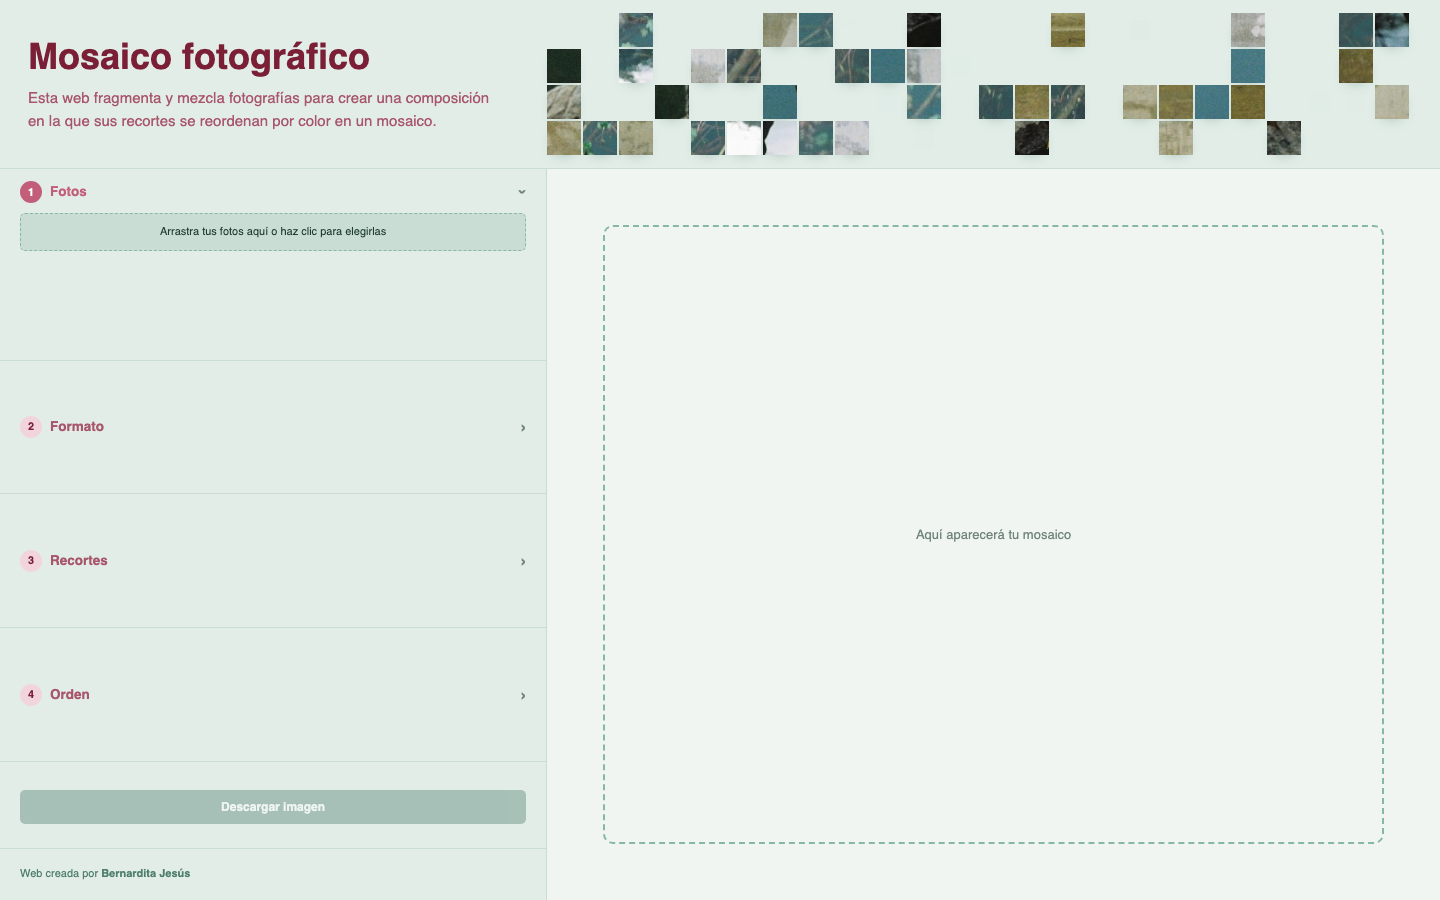
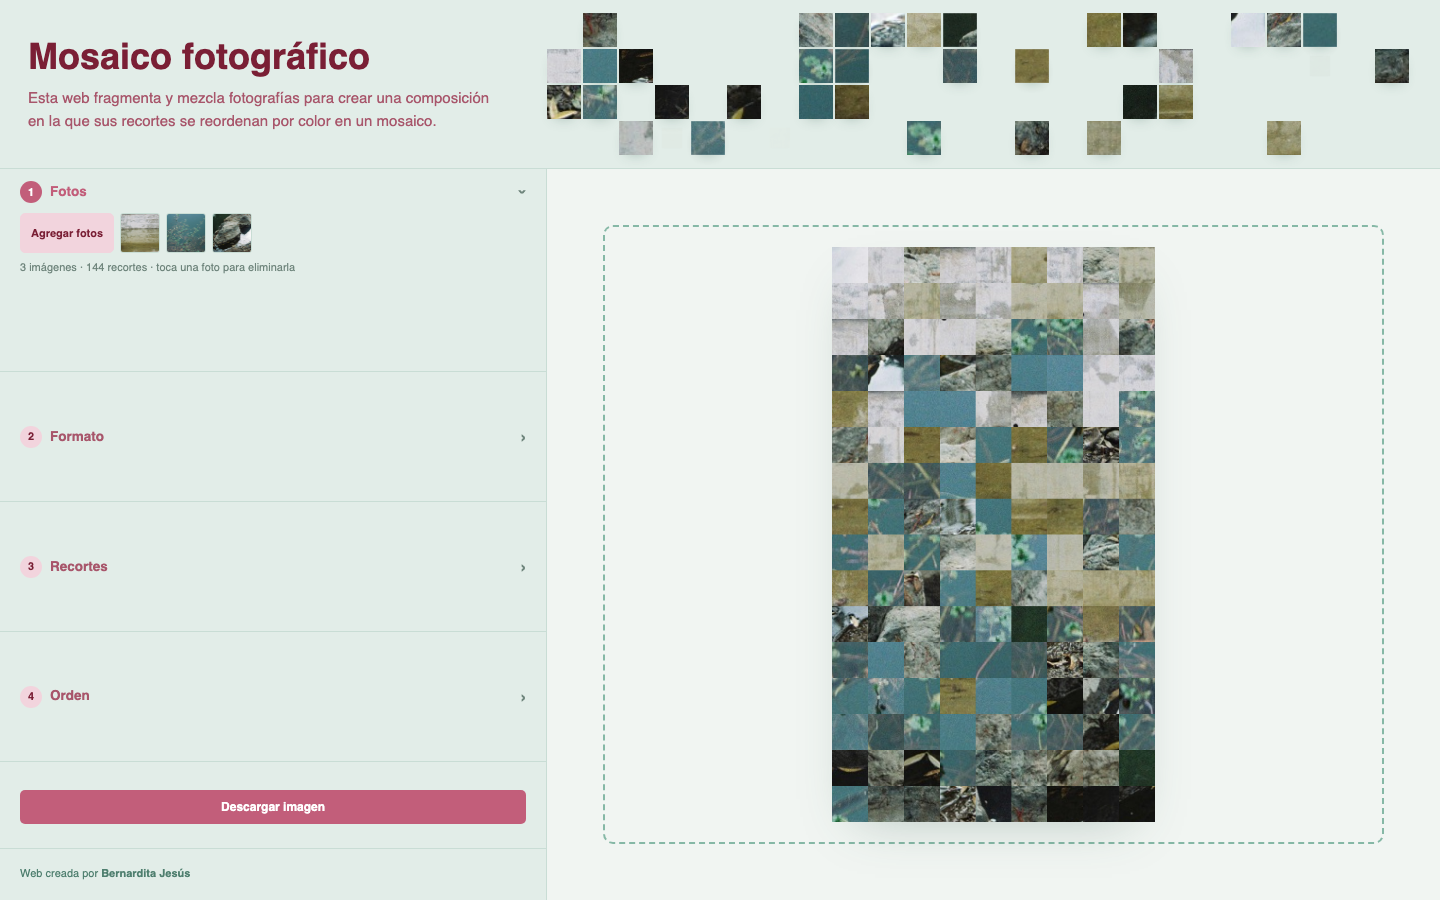
agregar

diff --git a/css/style.css b/css/style.css
@@ -12,6 +12,11 @@
   --accent-text: #1f3d33;
   --text: #34443d;
   --text-dim: #6f857c;
+  /* Rosados de los botones (misma familia del burdeo del título) */
+  --pink-strong: #c25e7a;
+  --pink: #e3a3b5;
+  --pink-dim: #f2d4dd;
+  --pink-text: #7a1f35;
 }
 
 * { box-sizing: border-box; }
@@ -123,7 +128,7 @@ body { display: flex; flex-direction: column; }
 .hint { margin: 0; font-size: 11px; line-height: 1.4; color: var(--text-dim); }
 .count { font-size: 11px; color: var(--text-dim); }
 
-input[type=range] { width: 100%; accent-color: var(--accent-strong); }
+input[type=range] { width: 100%; accent-color: var(--pink-strong); }
 select {
   width: 100%;
   background: var(--stage); color: var(--text);
@@ -135,48 +140,48 @@ select {
   display: flex; align-items: center; gap: 8px;
   font-size: 12px; color: var(--text) !important; cursor: pointer;
 }
-.checkbox-label input { width: 16px; height: 16px; margin: 0; accent-color: var(--accent-strong); }
+.checkbox-label input { width: 16px; height: 16px; margin: 0; accent-color: var(--pink-strong); }
 
 button { font-family: inherit; cursor: pointer; }
 .primary-btn {
   display: block; width: 100%; text-align: center;
-  padding: 10px 14px; background: var(--accent-strong); color: #fff;
+  padding: 10px 14px; background: var(--pink-strong); color: #fff;
   border: none; border-radius: 5px; font-size: 12px; font-weight: 600;
 }
-.primary-btn:hover:not(:disabled) { background: #3d6658; }
+.primary-btn:hover:not(:disabled) { background: #a84a65; }
 .primary-btn:disabled { opacity: .4; cursor: not-allowed; }
 .toggle-btn {
   padding: 8px 10px;
-  background: var(--accent-dim); border: 1px solid var(--accent-dim);
-  border-radius: 5px; font-size: 11px; font-weight: 600; color: var(--accent-text);
+  background: var(--pink-dim); border: 1px solid var(--pink-dim);
+  border-radius: 5px; font-size: 11px; font-weight: 600; color: var(--pink-text);
   transition: border-color .15s;
 }
-.toggle-btn:hover:not(:disabled) { border-color: var(--accent-strong); }
+.toggle-btn:hover:not(:disabled) { border-color: var(--pink-strong); }
 .toggle-btn:disabled { opacity: .4; cursor: not-allowed; }
 
 /* ---------- Subir fotos ---------- */
 .dropzone {
   padding: 10px 12px;
-  text-align: center; font-size: 11px; line-height: 1.4; color: var(--accent-text);
-  background: var(--accent-dim); border: 1px dashed var(--accent);
+  text-align: center; font-size: 11px; line-height: 1.4; color: var(--pink-text);
+  background: var(--pink-dim); border: 1px dashed var(--pink);
   border-radius: 5px;
   cursor: pointer;
   transition: border-color .15s, background .15s;
 }
 .dropzone input { display: none; }
-.dropzone:hover, .dropzone.drag { border-color: var(--accent-strong); background: var(--stage); }
-.dropzone:focus-visible { outline: 2px solid var(--accent-strong); outline-offset: 2px; }
+.dropzone:hover, .dropzone.drag { border-color: var(--pink-strong); background: var(--stage); }
+.dropzone:focus-visible { outline: 2px solid var(--pink-strong); outline-offset: 2px; }
 
 .photos-row { display: flex; flex-wrap: wrap; align-items: center; gap: 6px; }
 .thumbrow { display: contents; } /* las miniaturas siguen al botón en la misma fila */
 .add-btn {
   height: 40px; padding: 0 10px;
-  background: var(--accent-dim); border: 1px solid var(--accent-dim);
-  border-radius: 5px; font-size: 11px; font-weight: 600; color: var(--accent-text);
+  background: var(--pink-dim); border: 1px solid var(--pink-dim);
+  border-radius: 5px; font-size: 11px; font-weight: 600; color: var(--pink-text);
   transition: border-color .15s;
 }
-.add-btn:hover { border-color: var(--accent-strong); }
-.add-btn:focus-visible { outline: 2px solid var(--accent-strong); outline-offset: 2px; }
+.add-btn:hover { border-color: var(--pink-strong); }
+.add-btn:focus-visible { outline: 2px solid var(--pink-strong); outline-offset: 2px; }
 .thumbrow .thumb {
   position: relative; padding: 0; border: 0; background: none;
   border-radius: 3px; line-height: 0;
@@ -190,13 +195,13 @@ button { font-family: inherit; cursor: pointer; }
   position: absolute; inset: 0;
   display: flex; align-items: center; justify-content: center;
   border-radius: 3px;
-  background: rgba(31, 61, 51, .55); color: #fff;
+  background: rgba(122, 31, 53, .55); color: #fff;
   font-size: 20px; line-height: 1;
   opacity: 0; transition: opacity .15s ease;
 }
 .thumbrow .thumb:hover::after,
 .thumbrow .thumb:focus-visible::after { opacity: 1; }
-.thumbrow .thumb:focus-visible { outline: 2px solid var(--accent-strong); outline-offset: 2px; }
+.thumbrow .thumb:focus-visible { outline: 2px solid var(--pink-strong); outline-offset: 2px; }
 
 /* Formatos como dibujos */
 .formats { display: flex; gap: 6px; }
@@ -215,11 +220,11 @@ button { font-family: inherit; cursor: pointer; }
   transition: border-color .15s, background .15s;
 }
 .fmt .ratio { font-size: 10px; color: var(--text-dim); font-variant-numeric: tabular-nums; }
-.fmt:hover { border-color: var(--accent-strong); }
-.fmt:has(input:checked) { border-color: var(--accent-strong); background: var(--stage); }
-.fmt:has(input:checked) .shape { border-color: var(--accent-text); background: var(--accent); }
+.fmt:hover { border-color: var(--pink-strong); }
+.fmt:has(input:checked) { border-color: var(--pink-strong); background: var(--stage); }
+.fmt:has(input:checked) .shape { border-color: var(--pink-text); background: var(--pink); }
 .fmt:has(input:checked) .ratio { color: var(--text); }
-.fmt:has(input:focus-visible) { outline: 2px solid var(--accent-strong); outline-offset: 2px; }
+.fmt:has(input:focus-visible) { outline: 2px solid var(--pink-strong); outline-offset: 2px; }
 
 /* Orden como dibujos: una tirita de recortes con el degradé de cada orden */
 .swatch {
@@ -245,7 +250,7 @@ button { font-family: inherit; cursor: pointer; }
     linear-gradient(90deg, #4f8f7d 0 20%, #427f86 20% 40%, #3f6d8f 40% 60%, #4c5d91 60% 80%, #615b8f 80%) bottom / 100% 50% no-repeat;
 }
 .sort-opt .ratio { white-space: nowrap; }
-.sort-opt:has(input:checked) .swatch { outline: 2px solid var(--accent-strong); outline-offset: 2px; }
+.sort-opt:has(input:checked) .swatch { outline: 2px solid var(--pink-strong); outline-offset: 2px; }
 
 /* ---------- Lado derecho: el mosaico ---------- */
 .stage {
@@ -276,7 +281,7 @@ button { font-family: inherit; cursor: pointer; }
 /* Recuadro que marca el primer cuadrado tocado, antes de intercambiarlo */
 .tile-sel {
   position: absolute; pointer-events: none;
-  outline: 3px solid #fff; box-shadow: 0 0 0 5px var(--accent-strong);
+  outline: 3px solid #fff; box-shadow: 0 0 0 5px var(--pink-strong);
 }
 #canvas-holder canvas {
   display: block;

diff --git a/js/script.js b/js/script.js
@@ -221,12 +221,51 @@ document.querySelectorAll('#app input, #app select').forEach(el => {
   if (el.type === 'file') return;
   el.addEventListener(el.type === 'range' ? 'input' : 'change', () => scheduleBuild());
 });
+// Guardar: en el teléfono se abre el menú de compartir (ahí está "Guardar
+// imagen" / "Guardar en Fotos"); en el computador se descarga el archivo.
+// La imagen se deja preparada cada vez que el mosaico cambia, porque Safari
+// solo abre el menú si se pide en el mismo instante del toque.
+let mosaicFile = null;
+let fileTimer = null;
+function prepareFile() {
+  mosaicFile = null;
+  clearTimeout(fileTimer);
+  const canvas = mosaicCanvas;
+  if (!canvas) return;
+  fileTimer = setTimeout(() => {
+    canvas.toBlob(blob => {
+      if (blob && canvas === mosaicCanvas) {
+        mosaicFile = new File([blob], 'mosaico-' + lastFormatName + '.png', { type: 'image/png' });
+      }
+    }, 'image/png');
+  }, 150);
+}
+
+function downloadFile(blob, name) {
+  const url = URL.createObjectURL(blob);
+  const link = document.createElement('a');
+  link.href = url;
+  link.download = name;
+  document.body.appendChild(link); // algunos navegadores lo necesitan en la página
+  link.click();
+  link.remove();
+  setTimeout(() => URL.revokeObjectURL(url), 10000);
+}
+
 downloadBtn.addEventListener('click', () => {
   if (!mosaicCanvas) return;
-  const link = document.createElement('a');
-  link.download = 'mosaico-' + lastFormatName + '.png';
-  link.href = mosaicCanvas.toDataURL('image/png');
-  link.click();
+  const isTouch = window.matchMedia('(pointer: coarse)').matches;
+  const file = mosaicFile;
+  if (file && isTouch && navigator.canShare && navigator.canShare({ files: [file] })) {
+    navigator.share({ files: [file], title: 'Mosaico fotográfico' }).catch(err => {
+      if (err.name !== 'AbortError') downloadFile(file, file.name); // si no se pudo compartir, se descarga
+    });
+    return;
+  }
+  if (file) { downloadFile(file, file.name); return; }
+  // Si la imagen aún no estaba lista, se prepara y se descarga
+  const name = 'mosaico-' + lastFormatName + '.png';
+  mosaicCanvas.toBlob(blob => { if (blob) downloadFile(blob, name); }, 'image/png');
 });
 
 function rgbToHsb(r, g, b) {
@@ -331,6 +370,7 @@ function buildMosaic() {
     document.getElementById('canvas-holder').innerHTML = '';
     mosaicCanvas = null;
     current = null;
+    prepareFile();
     downloadBtn.disabled = true;
     analysisCache = null;
     return;
@@ -424,7 +464,7 @@ function buildMosaic() {
       });
     });
     showCanvas(out);
-    current = { fmt, images, placed, octx, wctx };
+    current = { fmt, images, placed, octx, wctx, mode };
 
     imgCount.textContent = images.length + (images.length === 1 ? ' imagen' : ' imágenes') +
       ' · ' + slots.length + ' recortes · toca una foto para eliminarla';
@@ -496,6 +536,7 @@ function showCanvas(canvas) {
   mosaicCanvas = canvas;
   selected = null;
   canvas.addEventListener('click', onTileClick);
+  prepareFile();
 }
 
 // ---------- Intercambiar cuadrados a mano ----------
@@ -545,6 +586,16 @@ function onTileClick(e) {
   if (!current) return;
   const i = tileAt(e);
   if (i === -1) return;
+
+  // Ajedrez: el cuadrado cambia al recorte del mismo lugar, de la siguiente foto
+  if (current.mode === 'checker') {
+    const p = current.placed[i];
+    const img = (p.c.img + 1) % current.images.length;
+    p.c = { img, sx: p.s.x, sy: p.s.y, w: p.s.w, h: p.s.h };
+    drawTile(p);
+    prepareFile();
+    return;
+  }
   if (selected === null || selected === i) {
     selected = selected === i ? null : i;   // tocar el mismo otra vez lo desmarca
   } else {
@@ -555,6 +606,7 @@ function onTileClick(e) {
     drawTile(a);
     drawTile(b);
     selected = null;
+    prepareFile();
   }
   markSelected();
 }
@@ -565,6 +617,9 @@ function syncJitter() {
   const off = getSortValue() === 'checker';
   document.getElementById('jitterField').classList.toggle('is-off', off);
   jitterSlider.disabled = off;
+  document.getElementById('tapHint').textContent = off
+    ? 'Toca un cuadrado del mosaico para cambiarlo por el mismo recorte de otra foto.'
+    : 'Toca un cuadrado del mosaico y luego otro para intercambiarlos.';
 }
 document.querySelectorAll('input[name=sort]').forEach(r => r.addEventListener('change', syncJitter));
 syncJitter();

diff --git a/index.html b/index.html
@@ -155,7 +155,7 @@
           <input type="range" id="jitter" min="0" max="100" value="35" step="1">
         </div>
         <button class="toggle-btn" id="processBtn" disabled>Mezclar de nuevo</button>
-        <p class="hint">Toca un cuadrado del mosaico y luego otro para intercambiarlos.</p>
+        <p class="hint" id="tapHint">Toca un cuadrado del mosaico y luego otro para intercambiarlos.</p>
       </div>
     </section>
 
